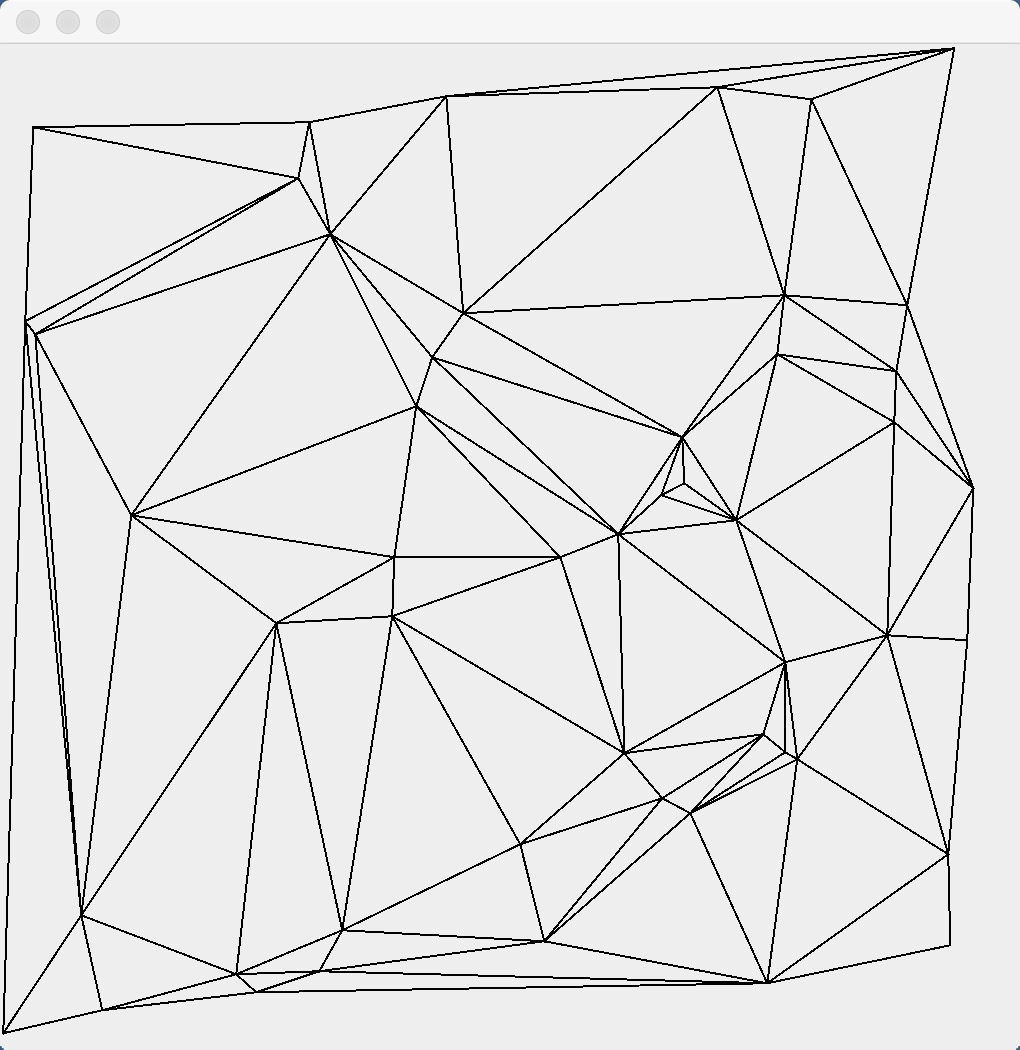
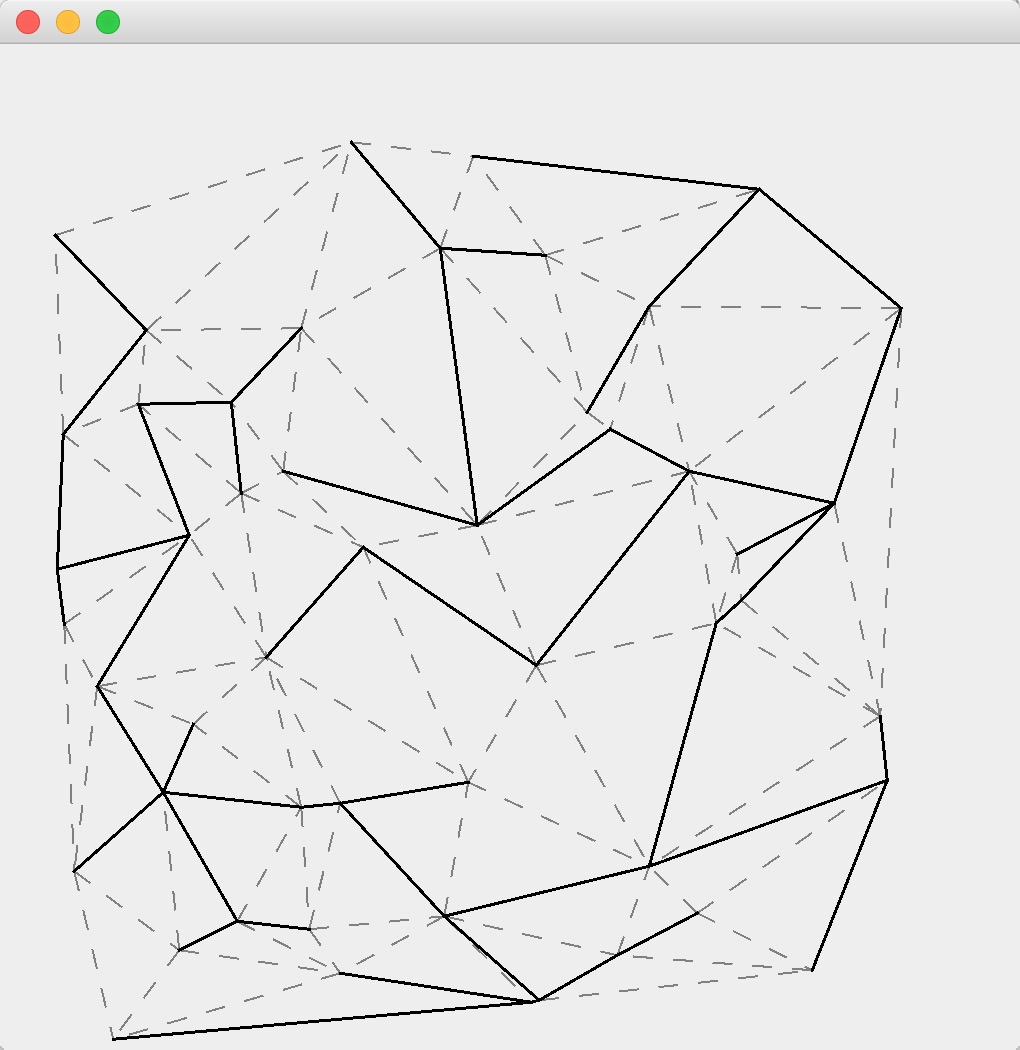
update
Kruskal Algorithm

diff --git a/code/DTMST/src/mst/Kruskal.java b/code/DTMST/src/mst/Kruskal.java
@@ -1,0 +1,64 @@
+package mst;
+
+import java.util.ArrayList;
+import java.util.Collections;
+import java.util.HashSet;
+
+import structure.DEdge;
+import structure.DPoint;
+
+public class Kruskal {
+	
+	public ArrayList<DEdge> edges;
+	public ArrayList<DPoint> points;
+	public Kruskal(ArrayList<DPoint> p, HashSet<DEdge> e){
+		getEdgesWeights(e);
+		sort(e);
+		points=p;
+	}
+	public void getEdgesWeights(HashSet<DEdge> e){
+		for(DEdge i:e){
+			i.getWeight();
+		}
+	}
+	public void sort(HashSet<DEdge> e){
+		edges=new ArrayList<DEdge>(e);
+		Collections.sort(edges);
+	}
+	
+	public HashSet<DEdge> getMST(){
+		ArrayList<HashSet<DPoint>> components=new ArrayList<HashSet<DPoint>>();
+		for(DPoint p:points){
+			HashSet<DPoint> set=new HashSet<DPoint>();
+			set.add(p);
+			components.add(set);
+		}
+		HashSet<DEdge> mst=new HashSet<DEdge>();
+		for(int i=0;i<edges.size();i++){
+			DPoint p0=edges.get(i).p[0];
+			DPoint p1=edges.get(i).p[1];
+			int indexp0=0;
+			int indexp1=0;
+			for(int j=0;j<components.size();j++){
+				if(components.get(j).contains(p0)){indexp0=j;};
+				if(components.get(j).contains(p1)){indexp1=j;};
+			}
+			
+			if(indexp0!=indexp1){
+				mst.add(edges.get(i));
+				HashSet<DPoint> merge=components.get(indexp0);
+				merge.addAll(components.get(indexp1));
+				if(indexp1>indexp0){
+					components.remove(indexp1);
+					components.remove(indexp0);
+				}else{
+					components.remove(indexp0);
+					components.remove(indexp1);
+				}
+				components.add(merge);
+			}
+		}
+		return mst;
+	}
+
+}

diff --git a/code/DTMST/src/utils/Lines.java b/code/DTMST/src/utils/Lines.java
@@ -1,6 +1,7 @@
 package utils;
 
 import java.awt.BasicStroke;
+import java.awt.Color;
 import java.awt.Graphics;
 import java.awt.Graphics2D;
 import java.awt.Shape;
@@ -16,15 +17,28 @@ import structure.DPoint;
 
 
 public class Lines extends JComponent{
-	private HashSet<DEdge> l=null;
+	private HashSet<DEdge> full_edges=null;
+	private HashSet<DEdge> mst_edges=null;
 	private ArrayList<DPoint> p=null;
-	public Lines(HashSet<DEdge> edges){
+	public Lines(HashSet<DEdge> full,HashSet<DEdge> mst){
 		super();
-		l=edges;
+		full_edges=full;
+		mst_edges=mst;
 	}
 	public void paint(Graphics g) {
 		Graphics2D g2 = (Graphics2D) g;
-		for(DEdge line:l){
+		g2.setBackground(Color.white);
+		float dash[] = { 10.0f };
+		g2.setStroke(new BasicStroke(1.0f, BasicStroke.CAP_BUTT,
+		        BasicStroke.JOIN_MITER, 10.0f, dash, 0.0f));
+		g2.setColor(Color.gray);
+		for(DEdge line:full_edges){
+			Shape k = new Line2D.Double(line.p[0].x,line.p[0].y, line.p[1].x,line.p[1].y);
+			g2.draw(k);
+		}
+		g2.setColor(Color.BLACK);
+		g2.setStroke(new BasicStroke((float) 1.5));
+		for(DEdge line:mst_edges){
 			Shape k = new Line2D.Double(line.p[0].x,line.p[0].y, line.p[1].x,line.p[1].y);
 			g2.draw(k);
 		}

diff --git a/code/DTMST/src/delaunay/Tester.java b/code/DTMST/src/delaunay/Tester.java
@@ -1,10 +1,13 @@
 package delaunay;
 
 import java.util.ArrayList;
+import java.util.HashSet;
 import java.util.Random;
 
 import javax.swing.JFrame;
 
+import mst.Kruskal;
+import structure.DEdge;
 import structure.DPoint;
 import structure.DTriangle;
 import utils.Lines;
@@ -23,9 +26,9 @@ public class Tester {
 //		points.add(new DPoint(80,70));
 
 		Random r = new Random();
-		for(int i=0; i<1000; i++) 
+		for(int i=0; i<50; i++) 
 		{
-			points.add(new DPoint( width*r.nextDouble(), height*r.nextDouble())); 
+			points.add(new DPoint( width*r.nextDouble(), height*r.nextDouble(),10000*r.nextDouble())); 
 		}
 		
 		BowyerWatson bw=new BowyerWatson(width,height,points);
@@ -34,7 +37,9 @@ public class Tester {
 	    JFrame window = new JFrame();
 	    window.setBounds(0, 0, 510, 525);
 	    //window.getContentPane().add(new Polygons(bw.getPolygons()));
-	    window.getContentPane().add(new Lines(bw.getPrunEdges()));
+	    HashSet<DEdge> full_edges=bw.getPrunEdges();
+	    Kruskal k=new Kruskal(points,full_edges);
+	    window.getContentPane().add(new Lines(full_edges,k.getMST()));
 	    window.setVisible(true);
 	}
 

diff --git a/code/DTMST/src/structure/DEdge.java b/code/DTMST/src/structure/DEdge.java
@@ -1,11 +1,17 @@
 package structure;
 
-public class DEdge {
+public class DEdge implements Comparable<DEdge> {
 	public DPoint[] p=new DPoint[2];
+	public double weight;
 	
 	public DEdge(DPoint a, DPoint b){
 		p[0]=a;
 		p[1]=b;
+	}
+	
+	public double getWeight(){
+		weight=Math.abs(p[0].value-p[1].value);
+		return weight;
 	}
 	
 	public int hashCode() {
@@ -16,6 +22,12 @@ public class DEdge {
 	
 	public boolean equals(Object o){
 		return this.hashCode()==o.hashCode();
+	}
+	
+	@Override
+	public int compareTo(DEdge arg0) {
+		int compare = this.weight > arg0.weight ? 1 : this.weight < arg0.weight ? -1 : 0;
+		return compare;
 	}
 	
 	public String toString(){

diff --git a/code/DTMST/src/structure/DPoint.java b/code/DTMST/src/structure/DPoint.java
@@ -4,10 +4,17 @@ public class DPoint {
 
 	public double x;
 	public double y;
+	public double value;
 	public DPoint(double xs,double ys){
 		x=xs;
 		y=ys;
 	}
+	public DPoint(double xs,double ys,double vl){
+		x=xs;
+		y=ys;
+		value=vl;
+	}
+	
 	public String toString(){
 		return "("+x+","+y+") ";
 	}
